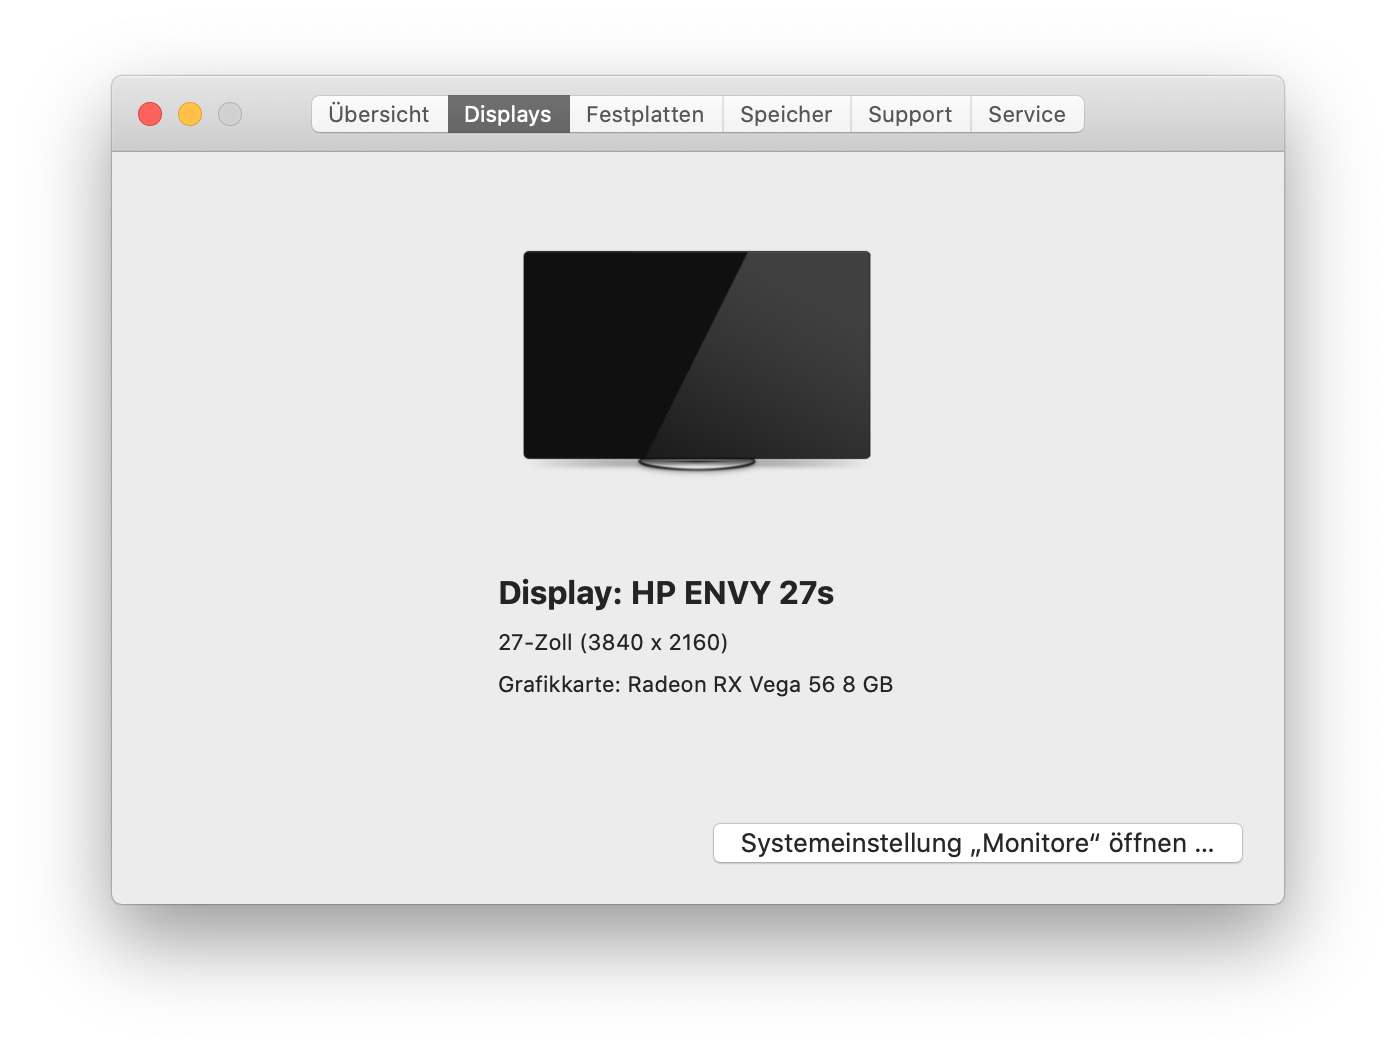
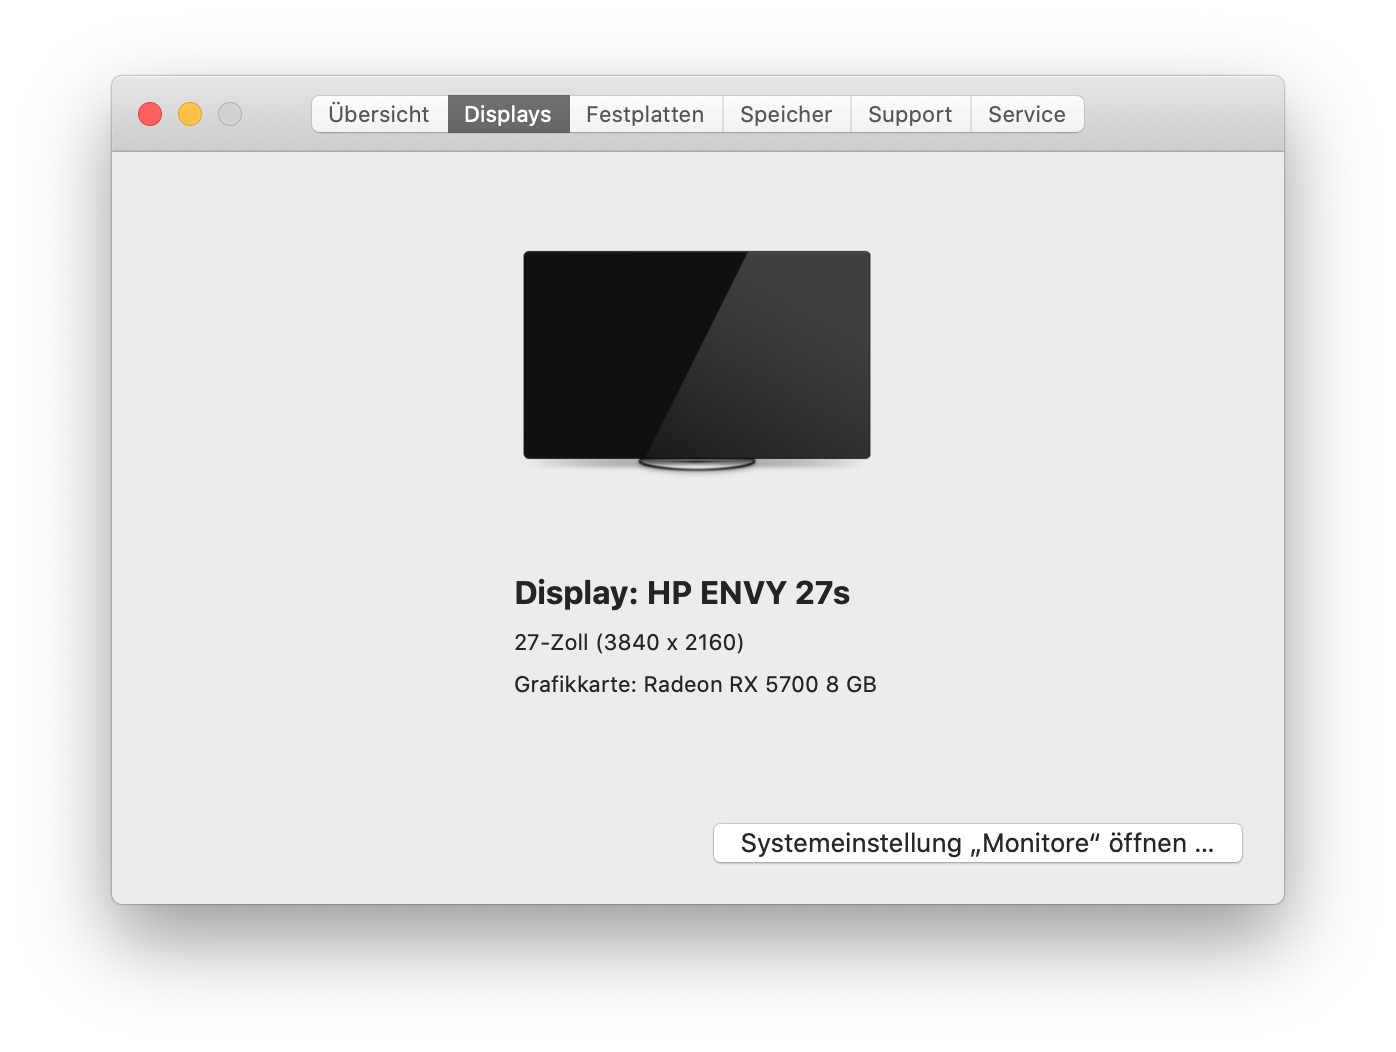
update to rx5700

Changed region(s): [[0.3388, 0.5475, 0.6468, 0.6692]]

diff --git a/README.md b/README.md
@@ -20,8 +20,8 @@ Created with the help of [OpenCore Vanilla Desktop Guide](https://khronokernel-2
 | FaceTime        | :grey_question:          |                         |
 | FileVault 2     | :grey_question:          |                         |
 | Handoff         | :heavy_multiplication_x: | [with Fenvi FV-T919](https://www.aliexpress.com/item/4000167777406.html) |
-| H.264           | :heavy_check_mark:       | [with Radeon RX Vega 56](https://github.com/mipxx/OpenCoreEFI/blob/master/Docs/System.md#hardware-encoding)  |
-| HEVC            | :heavy_check_mark:       | [with Radeon RX Vega 56](https://github.com/mipxx/OpenCoreEFI/blob/master/Docs/System.md#hardware-encoding)  |
+| H.264           | :heavy_check_mark:       | [with Radeon RX 5700](https://github.com/mipxx/OpenCoreEFI/blob/master/Docs/System.md#hardware-encoding)  |
+| HEVC            | :heavy_check_mark:       | [with Radeon RX 5700](https://github.com/mipxx/OpenCoreEFI/blob/master/Docs/System.md#hardware-encoding)  |
 | hibernate       | :heavy_multiplication_x: |                         |
 | iMessage        | :grey_question:          |                         |
 | native NVRAM    | :heavy_check_mark:       |                         |
@@ -42,7 +42,7 @@ Created with the help of [OpenCore Vanilla Desktop Guide](https://khronokernel-2
 - [GIGABYTE B450 Aorus Pro Rev. 1.0](https://de.aorus.com/product-detail.php?p=794&t=53&t2=57&t3=121) (UEFI Version [F41](http://download.gigabyte.eu/FileList/BIOS/mb_bios_b450-aorus-pro_f41_n.zip))
 - [AMD RYZEN 5 3600](https://www.amd.com/de/products/cpu/amd-ryzen-5-3600)
 - [Crucial Ballistix Sport LT rot DIMM Kit 16GB, DDR4-3200, CL16-18-18](https://ballistixgaming.com/products/dram/sport/ballistix-sport-lt-ddr4/ballistix-sport-lt-ddr4-rc.html)
-- [SAPPHIRE PULSE Radeon RX VEGA56 8G HBM2](https://www.sapphiretech.com/de-de/consumer/pulse-rx-vega56-8g-hbm2)
+- [PowerColor Red Dragon Radeon™ RX 5700](https://www.powercolor.com/product?id=1565954303)
 - [WD Blue SN500 NVMe SSD](https://shop.westerndigital.com/de-de/products/internal-drives/wd-blue-sn500-nvme-ssd#WDS500G1B0C)
 - [HP ENVY 27s](https://store.hp.com/GermanyStore/Merch/Product.aspx?id=Y6K73AA&opt=ABB&sel=MTO) 4K Monitor via DisplayPort
 - [Fenvi FV-T919](https://www.aliexpress.com/item/4000167777406.html) WiFi / Bluetooth Card PCIe

diff --git a/Docs/System.md b/Docs/System.md
@@ -4,7 +4,11 @@ Screenshots
 ## System Info
 <img src="https://github.com/mipxx/OpenCoreEFI/blob/master/Docs/System/System_Info_1.png" width="698" height="465"/>
 <img src="https://github.com/mipxx/OpenCoreEFI/blob/master/Docs/System/System_Info_2.png" width="698" height="526"/>
-<img src="https://github.com/mipxx/OpenCoreEFI/blob/master/Docs/System/System_Info_3.png" width="893" height="532"/>
+<img src="https://github.com/mipxx/OpenCoreEFI/blob/master/Docs/System/System_Info_3.png" width="698" height="314"/>
+<img src="https://github.com/mipxx/OpenCoreEFI/blob/master/Docs/System/System_Info_4.png" width="698" height="428"/>
+
+## RX 5700
+<img src="https://github.com/mipxx/OpenCoreEFI/blob/master/Docs/System/RX5700.png" width="900" height="528"/>
 
 ## Hardware Encoding
 <img src="https://github.com/mipxx/OpenCoreEFI/blob/master/Docs/System/VideoProc.png" width="934" height="646"/>
